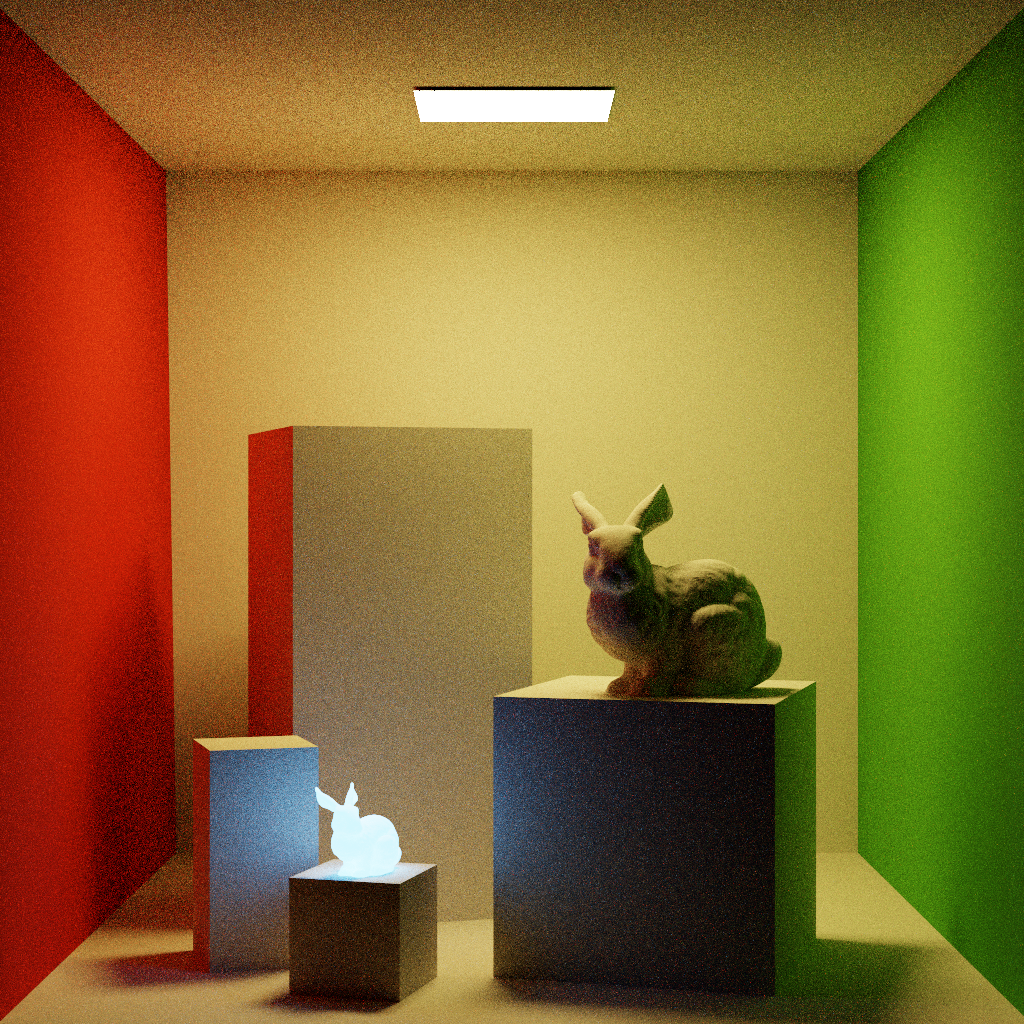
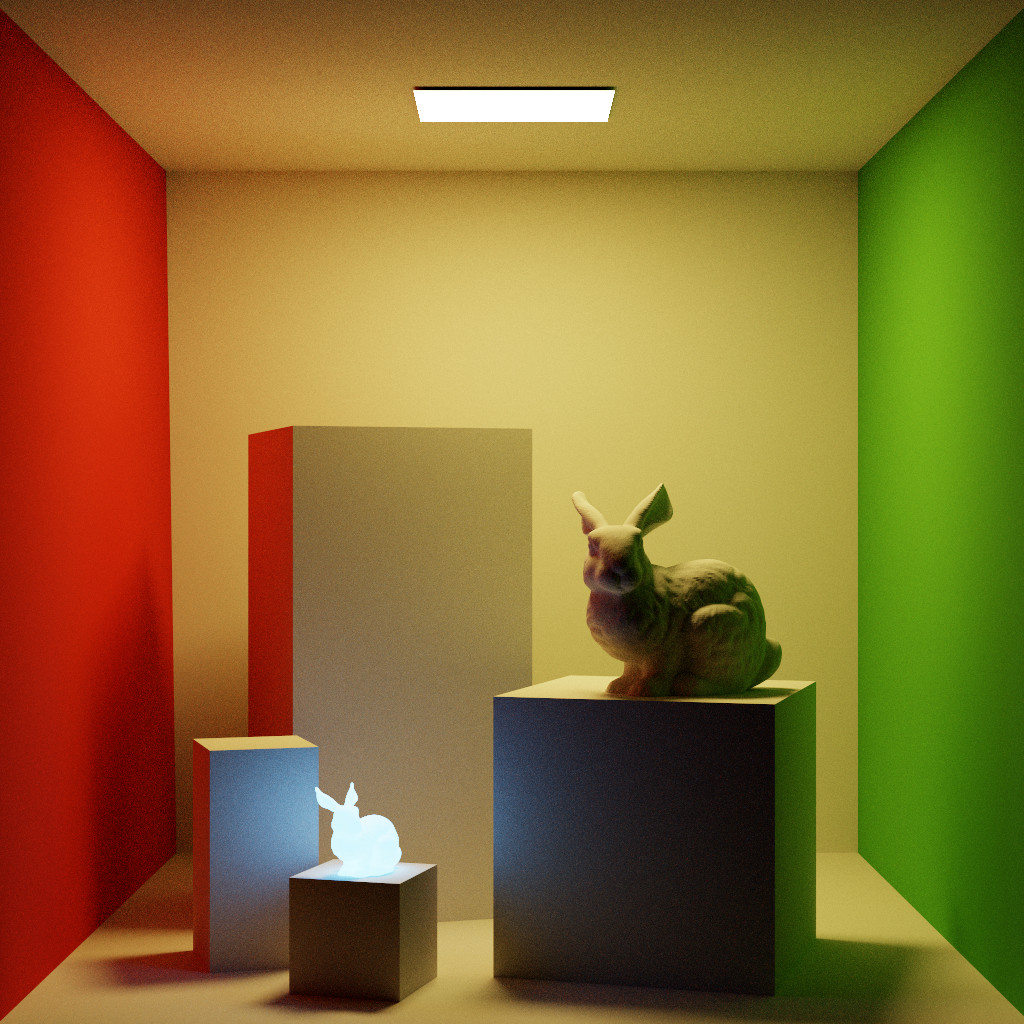
mesh light good

Changed region(s): [[0.0, 0.4375, 0.875, 1.0], [0.0, 0.0, 1.0, 0.2812], [0.625, 0.5, 0.6562, 0.5312]]

diff --git a/src/integrators/megakernel_path.cpp b/src/integrators/megakernel_path.cpp
@@ -145,11 +145,13 @@ void MegakernelPathTracingInstance::_render_one_camera(
             });
             // rr
             $if(all(throughput <= 0.0f)) { $break; };
-            auto l = dot(make_float3(0.212671f, 0.715160f, 0.072169f), throughput);
-            auto q = max(l, 0.05f);
-            auto r = sampler->generate_1d();
-            $if(r >= q) { $break; };
-            throughput *= 1.0f / q;
+            $if(depth >= 3u) {
+                auto l = dot(make_float3(0.212671f, 0.715160f, 0.072169f), throughput);
+                auto q = max(l, 0.05f);
+                auto r = sampler->generate_1d();
+                $if(r >= q) { $break; };
+                throughput *= 1.0f / q;
+            };
         };
         film->accumulate(pixel_id, radiance);
         sampler->save_state();
